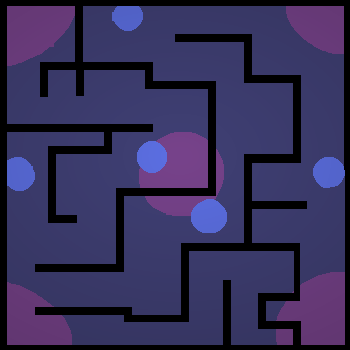
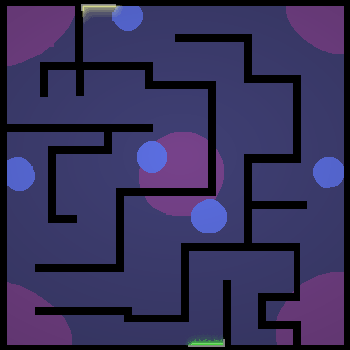
Added top-down control

Changed region(s): [[0.2286, 0.0, 0.3429, 0.0571], [0.5429, 0.9714, 0.6571, 1.0]]

diff --git a/Assets/Scripts/Player/Topdown Control/PlayerTopdownMovementContoller.cs b/Assets/Scripts/Player/Topdown Control/PlayerTopdownMovementContoller.cs
@@ -5,9 +5,21 @@ using UnityEngine;
 public class PlayerTopdownMovementContoller : MonoBehaviour
 {
     PlayerTopdownController playerController;
+    
+    private Vector2 velocity = Vector2.zero;
 
-    void Awake()
+    private void Awake()
     {
         playerController = GetComponent<PlayerTopdownController>();
+    }
+
+    private void Update() 
+    {
+        velocity = playerController.playerInput.input.normalized * playerController.playerSpeed;
+    }
+
+    private void FixedUpdate() 
+    {
+        playerController.rbody.velocity = velocity;
     }
 }
